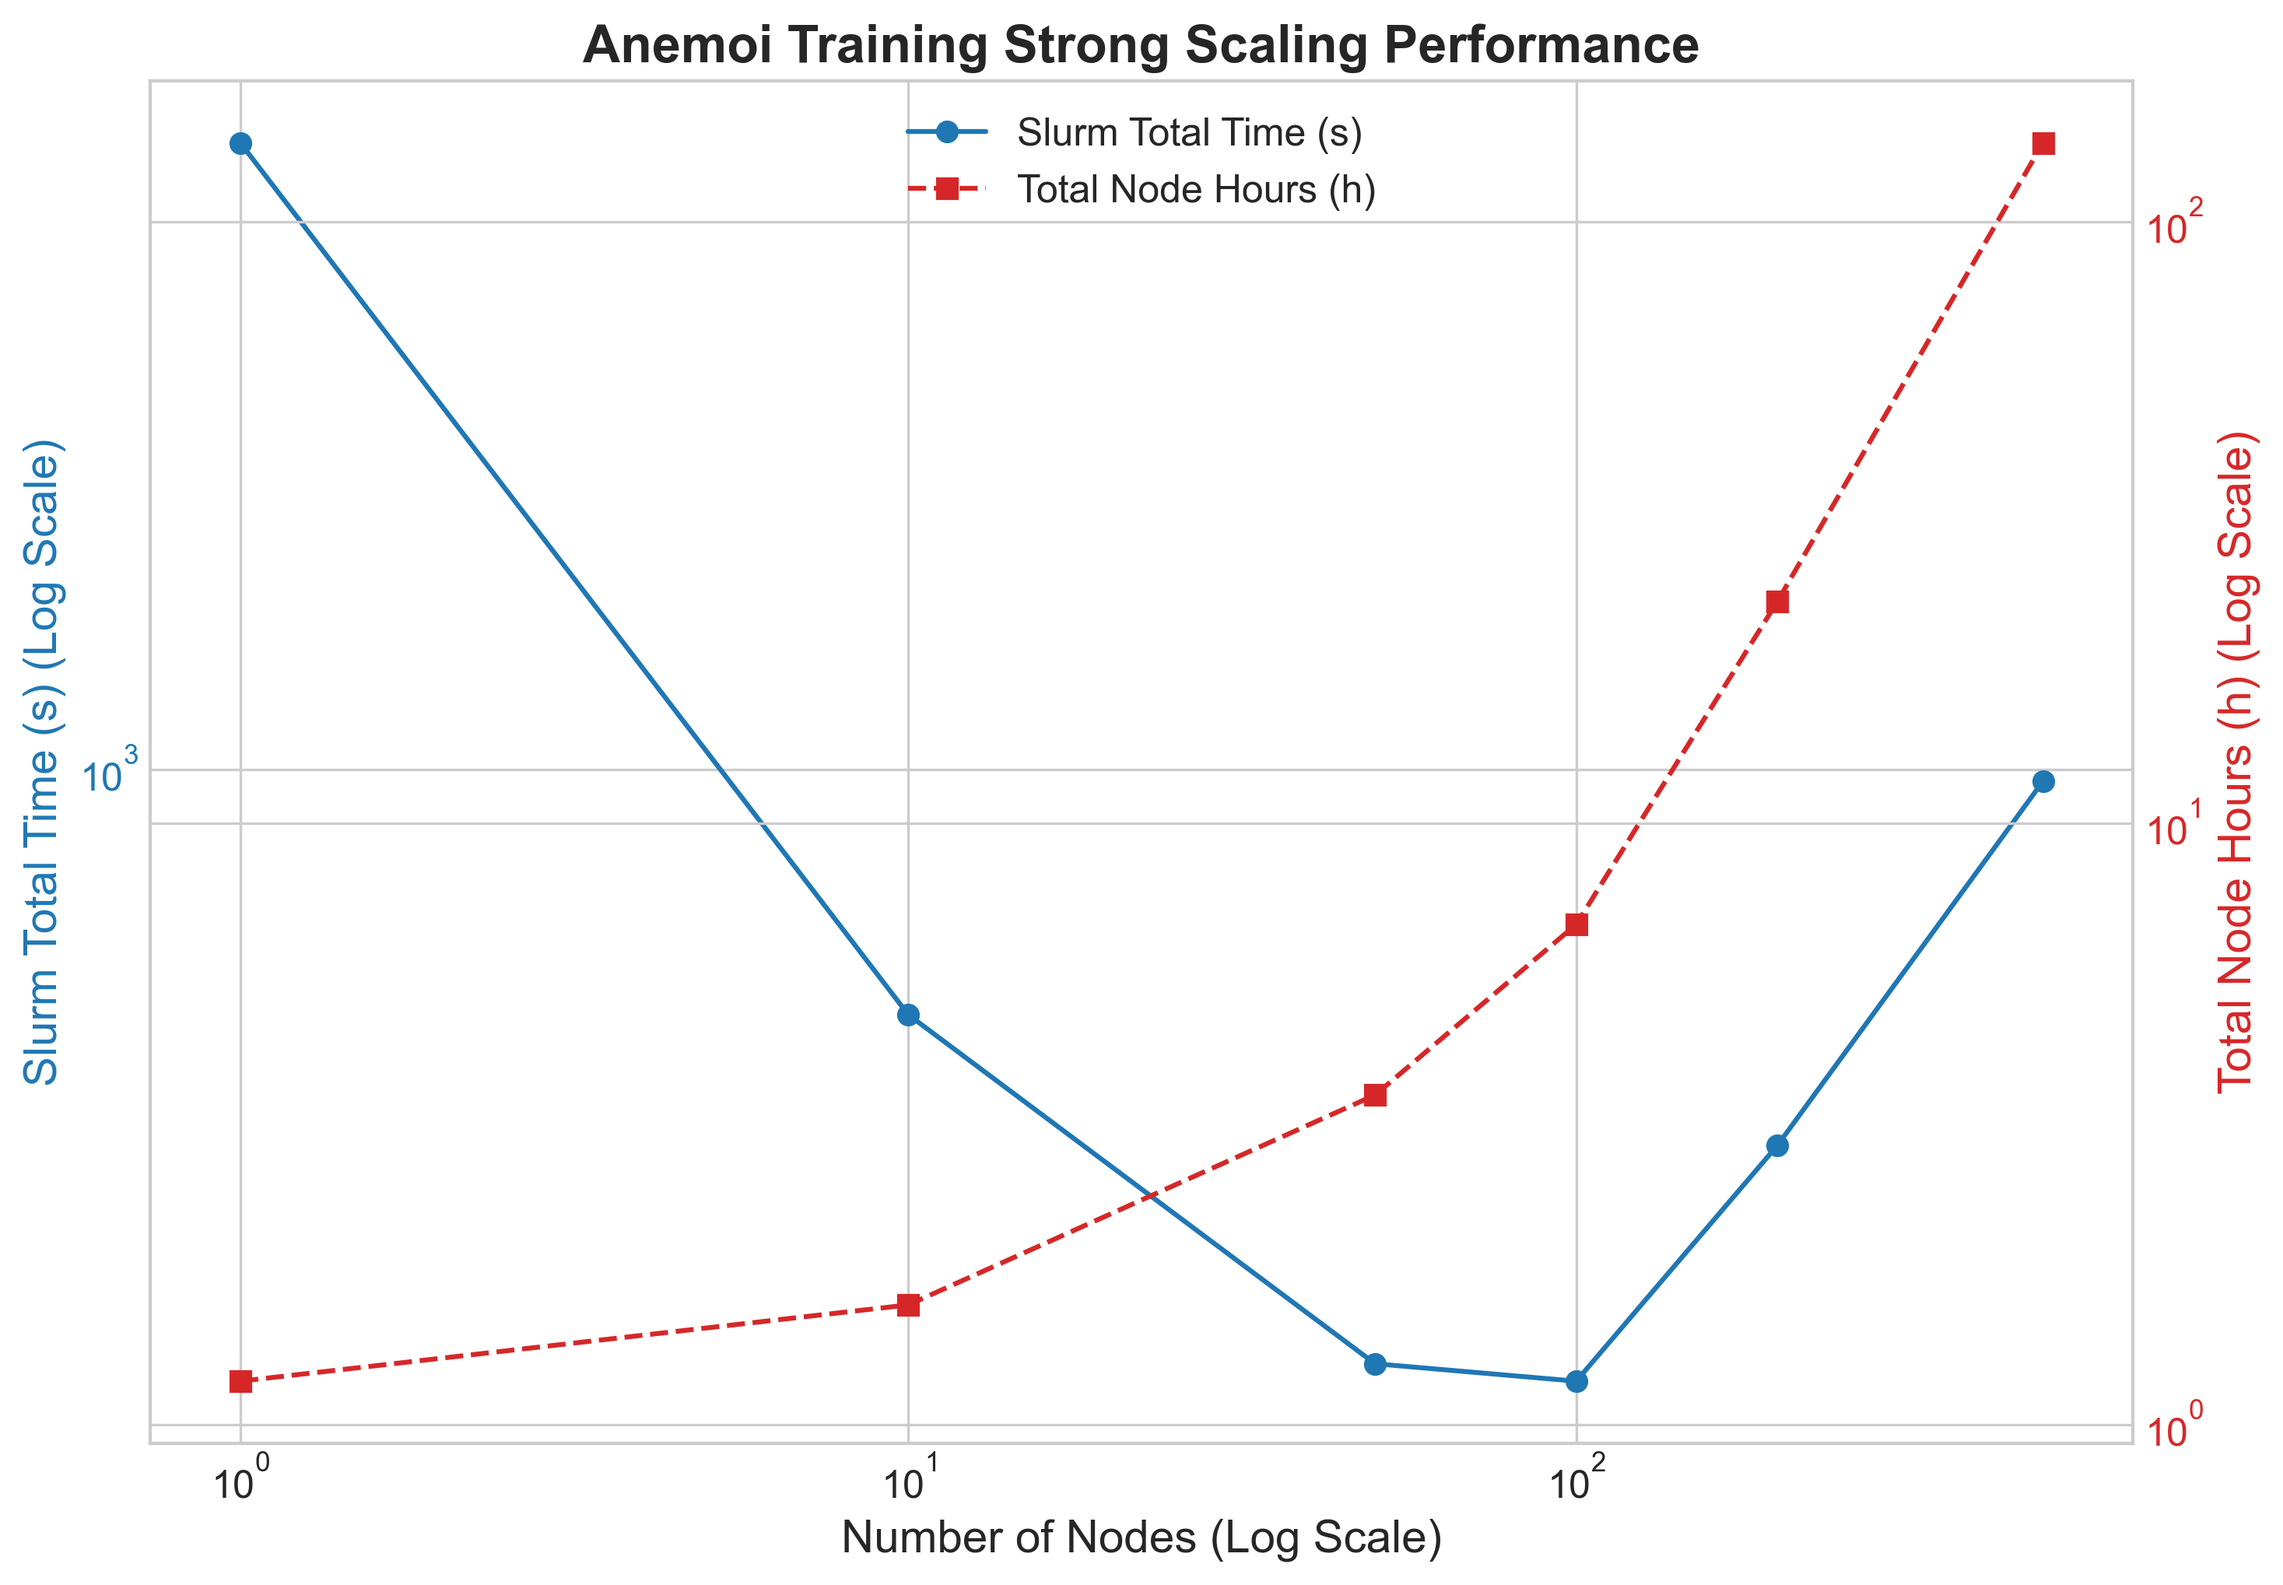
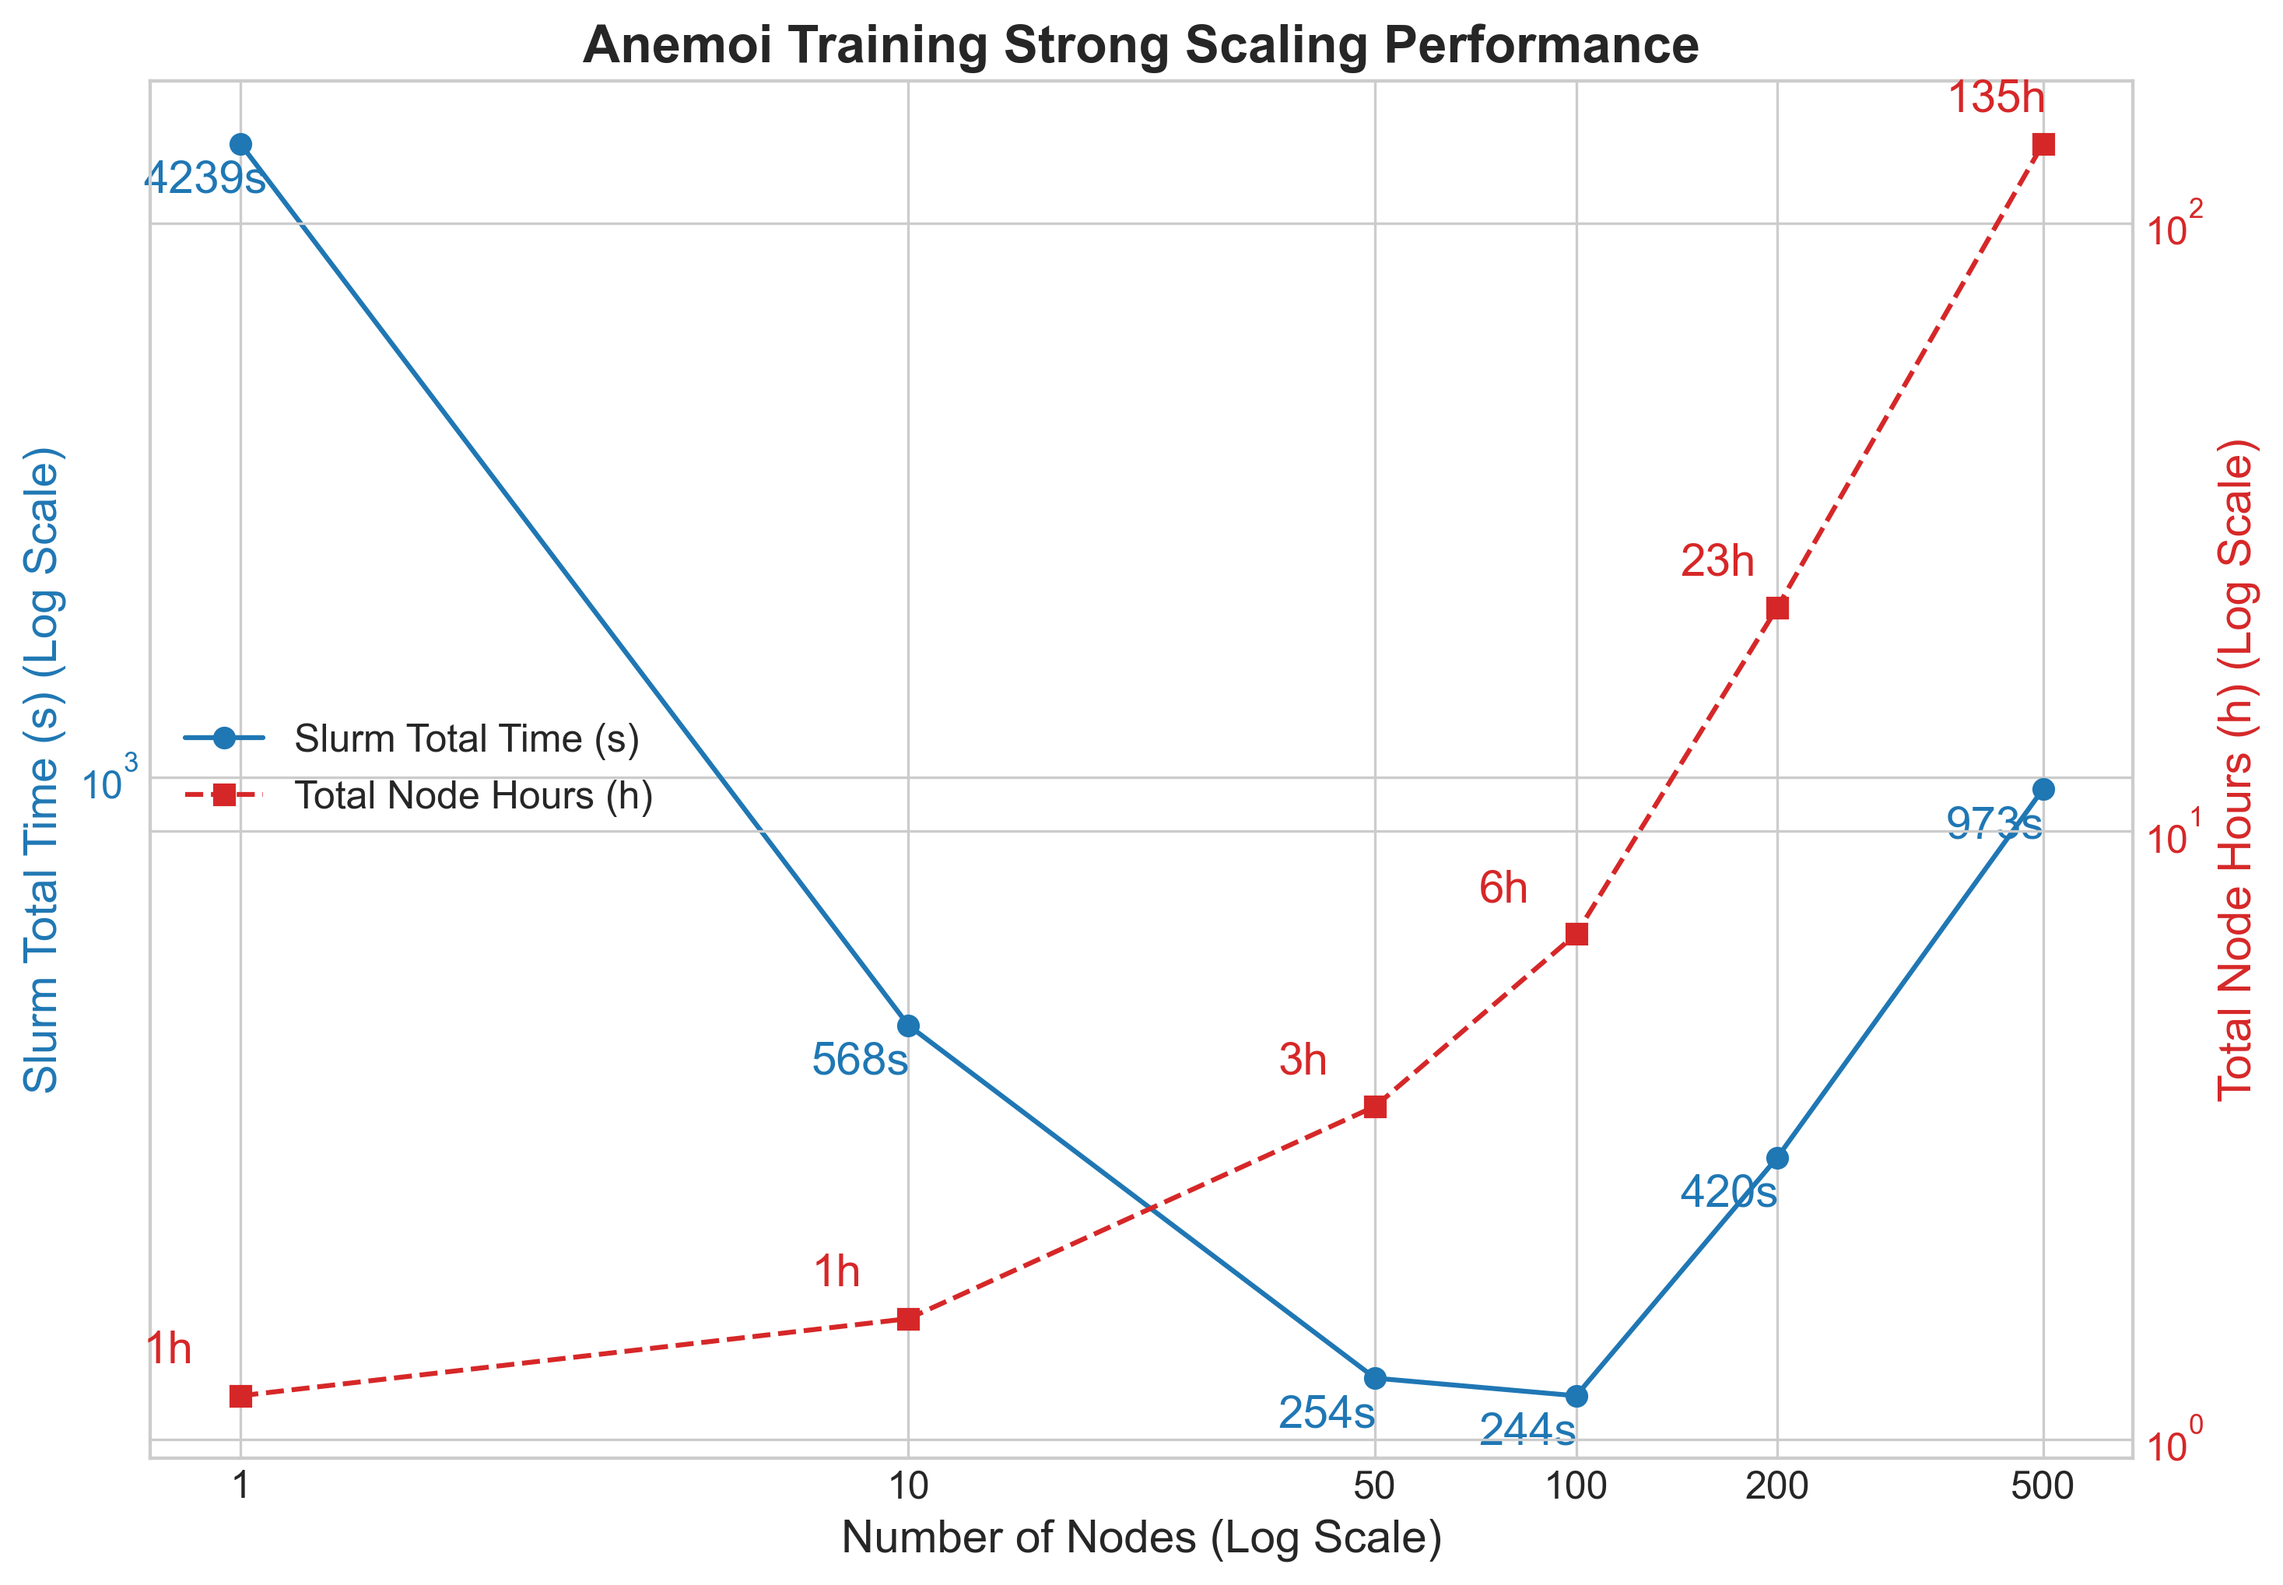
Updating the plots

diff --git a/experiments/1_initial_scaling/1_analysis.py b/experiments/1_initial_scaling/1_analysis.py
@@ -41,11 +41,29 @@ ax2.loglog(df['Nodes'], df['Total Node Hours (h)'], color=color2, marker='s', li
 ax2.set_ylabel('Total Node Hours (h) (Log Scale)', color=color2)
 ax2.tick_params(axis='y', labelcolor=color2)
 
+ax1.set_xticks(df['Nodes'])
+ax1.get_xaxis().set_major_formatter(mticker.ScalarFormatter())
+
+for index, row in df.iterrows():
+    ax1.annotate(f"{int(row['Slurm Total Time (s)'])}s",
+                 (row['Nodes'], row['Slurm Total Time (s)']),
+                 textcoords="offset points",
+                 xytext=(-30,-15),
+                 ha='left',
+                 color=color1)
+
+    ax2.annotate(f"{int(row['Total Node Hours (h)'])}h",
+                 (row['Nodes'], row['Total Node Hours (h)']),
+                 textcoords="offset points",
+                 xytext=(-30,10),
+                 ha='left',
+                 color=color2)
+
 plt.title('Anemoi Training Strong Scaling Performance', fontweight='bold')
 
 lines, labels = ax1.get_legend_handles_labels()
 lines2, labels2 = ax2.get_legend_handles_labels()
-ax2.legend(lines + lines2, labels + labels2, loc='upper center')
+ax2.legend(lines + lines2, labels + labels2, loc='center left')
 
 fig.tight_layout()
 
@@ -72,6 +90,9 @@ ax2 = ax1.twinx()
 ax2.loglog(df['Nodes'], df['Training setup time'], color=color2, marker='s', linestyle='--', label='Training Setup Time (s)')
 ax2.set_ylabel('Training Setup Time (s) (Log Scale)', color=color2)
 ax2.tick_params(axis='y', labelcolor=color2)
+
+ax1.set_xticks(df['Nodes'])
+ax1.get_xaxis().set_major_formatter(mticker.ScalarFormatter())
 
 for index, row in df.iterrows():
     ax1.annotate(f"{int(row['Job Training Time'])}s",
